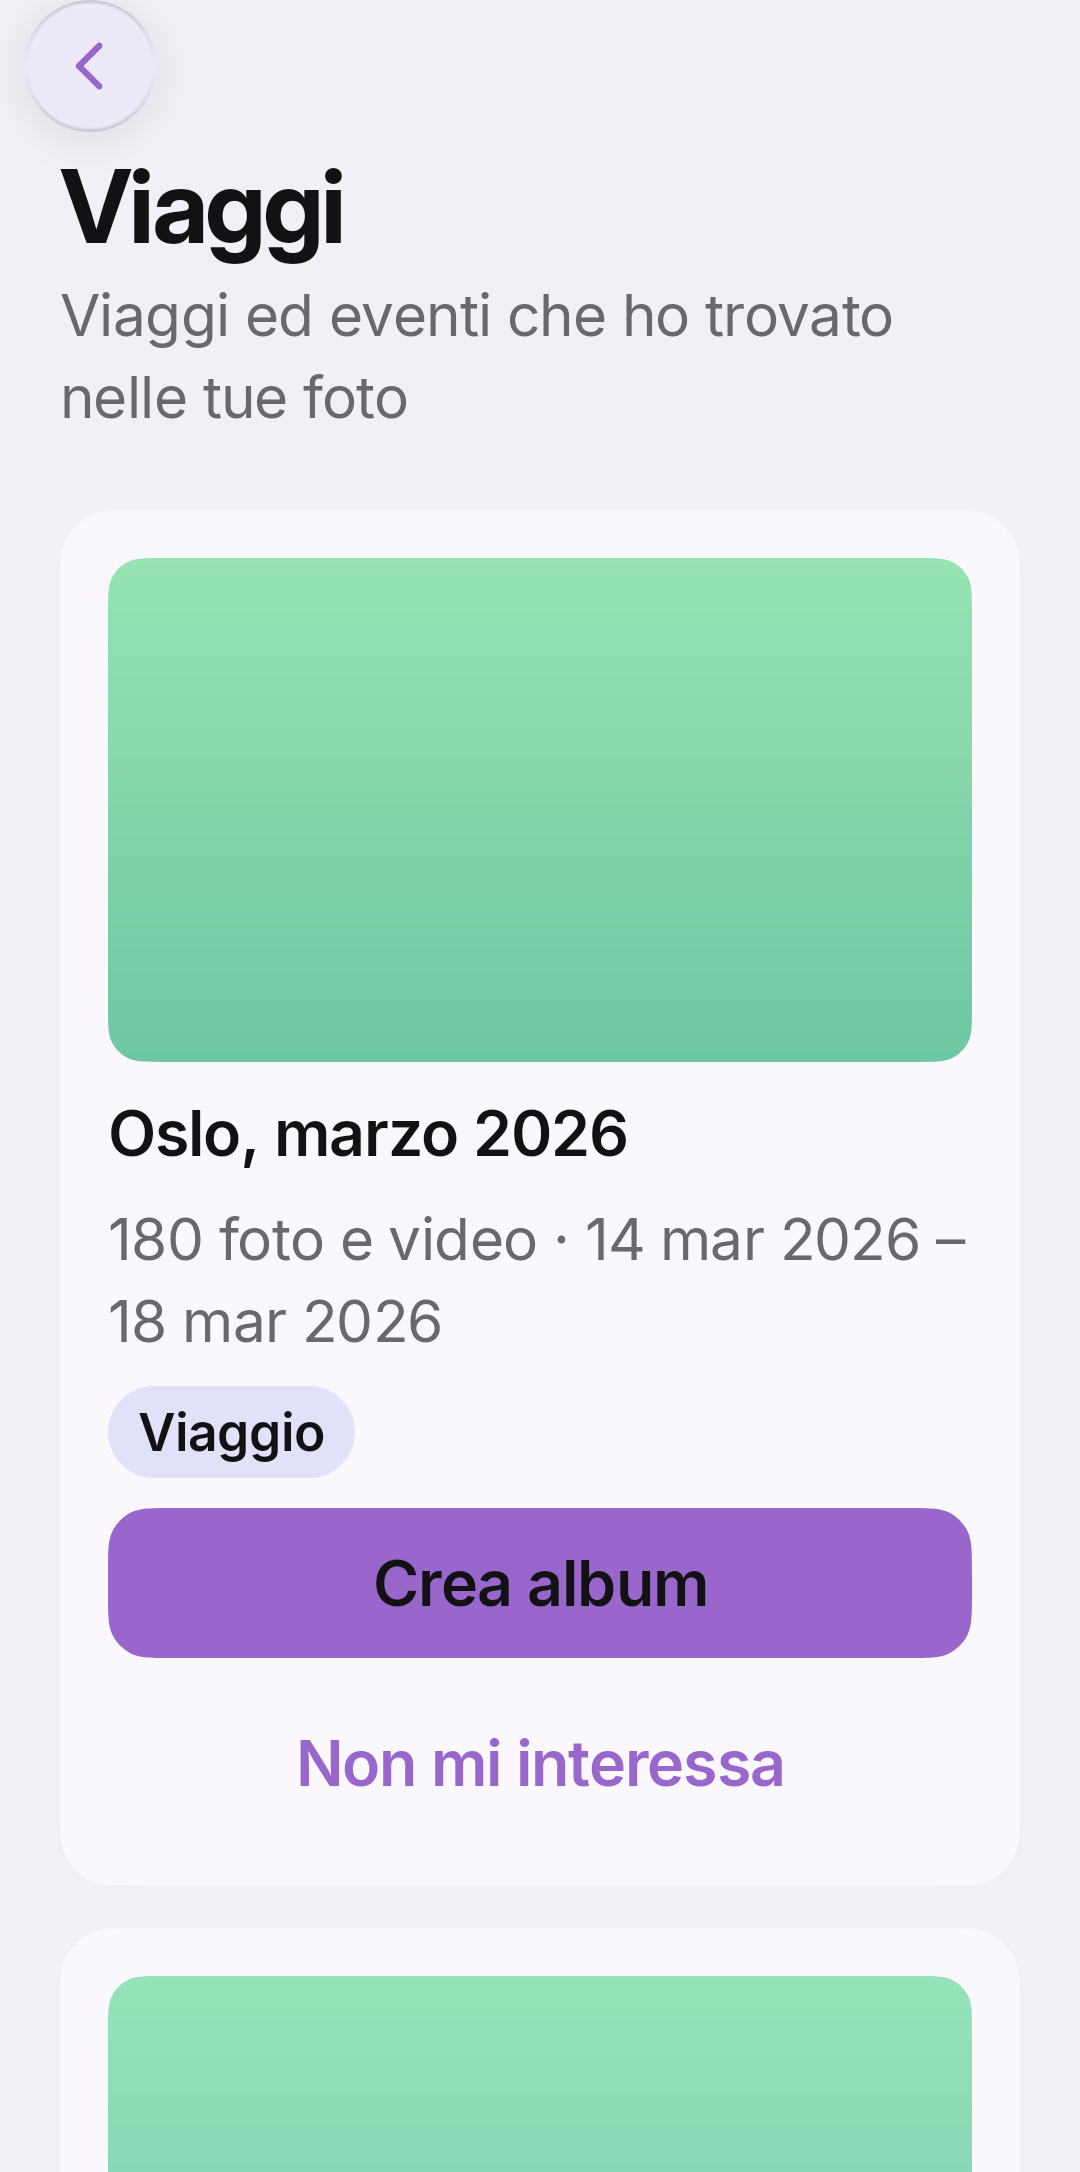
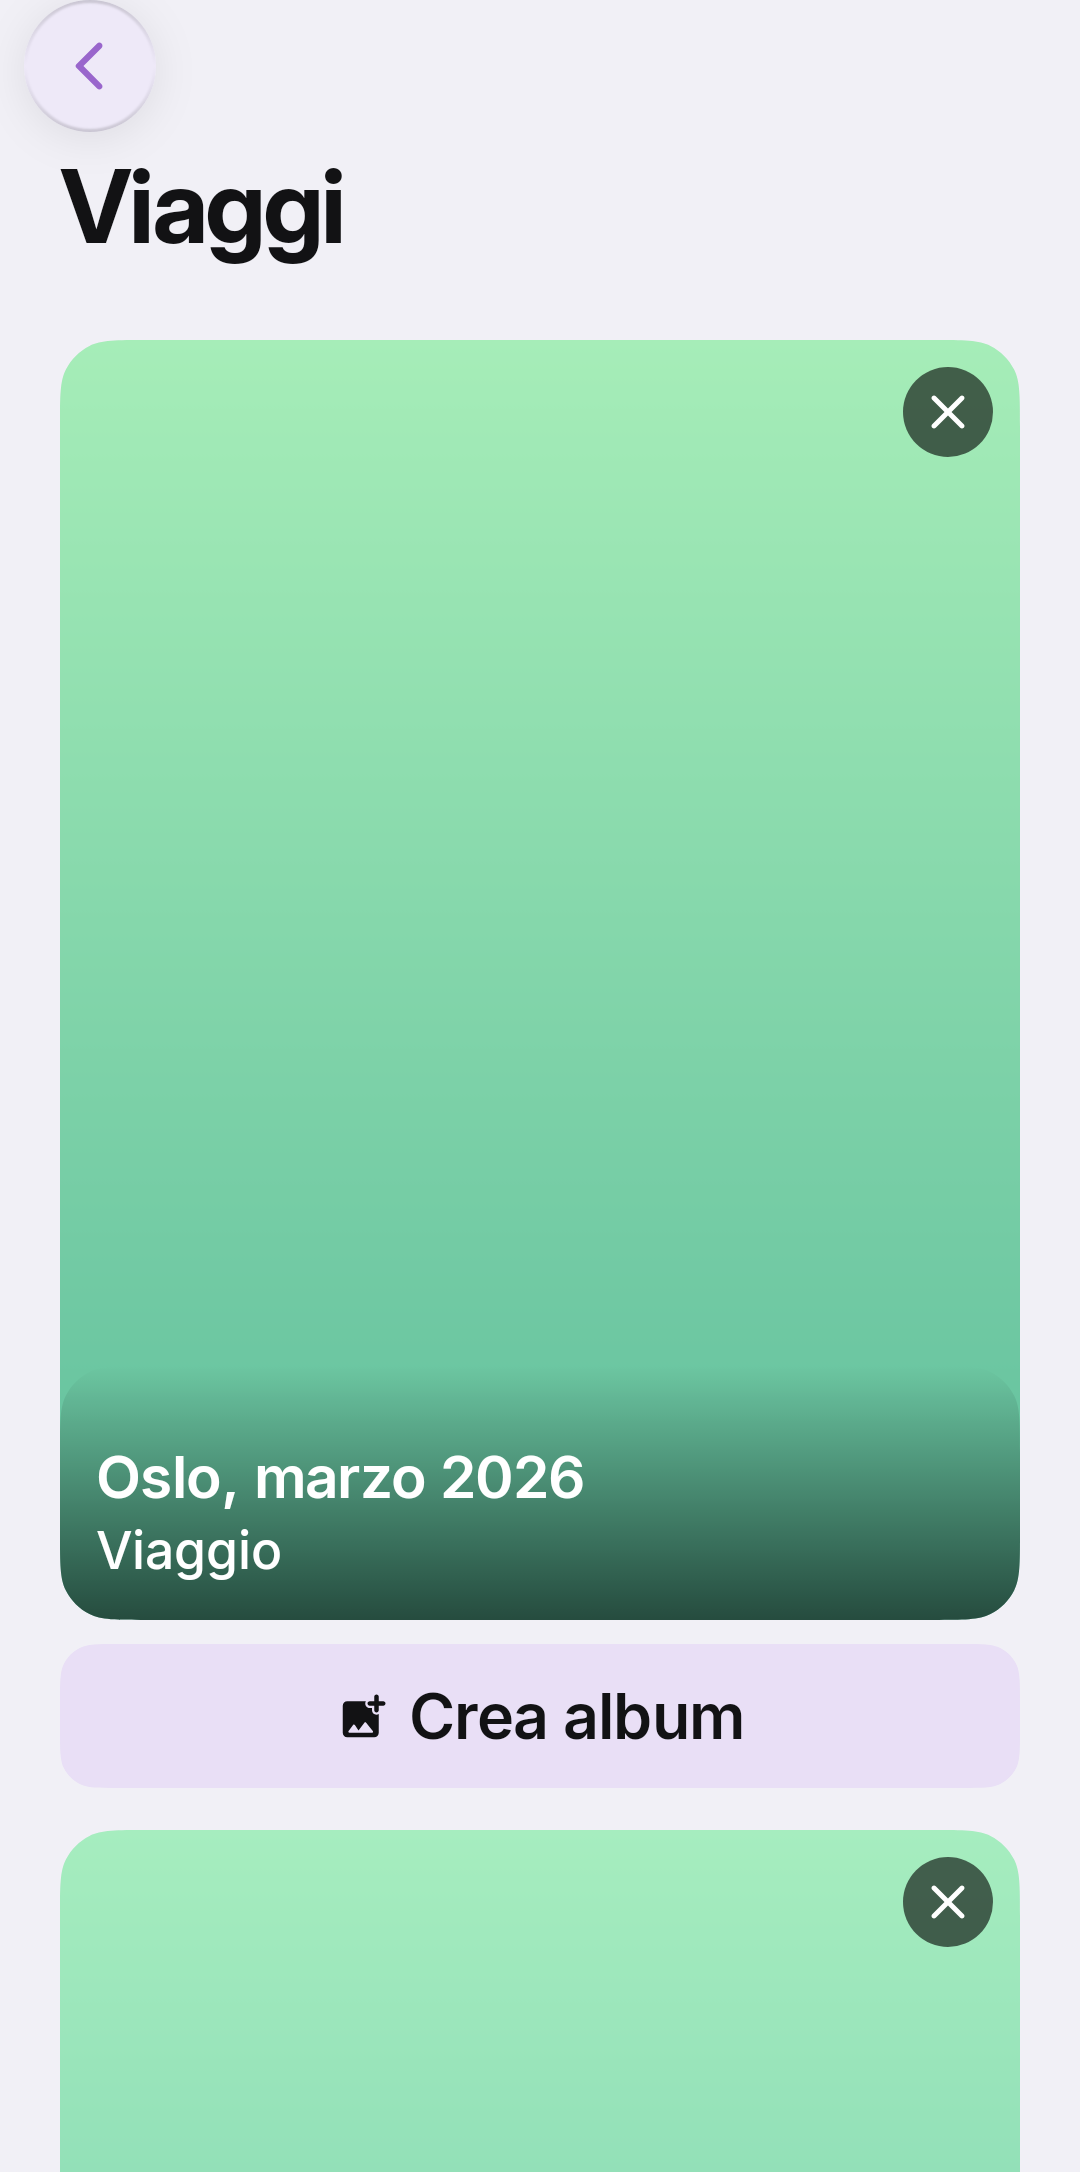
Viaggi: una griglia di schede come Tutti i ricordi, con la ✕ di Non mi interessa e Crea album sotto (I4)
La copertina a tutta scheda (3:4), il nome e «Viaggio» o «Evento» sopra la sfumatura (la coppia di GalleryOnPhoto), come le
schede di I1; il numero delle foto e i giorni li dice TalkBack. La ✕ in alto a destra (48 dp) e «Crea album» con il + sotto la
scheda; durante la creazione «Creo…» con la rotellina. Gli stati vuoti con il solo titolo, via il sottotitolo della pagina.
La scheda dei ricordi e' privata di feature-memories: qui la stessa forma con le stesse misure.

diff --git a/feature-albums/src/main/kotlin/dev/pampa/mycloudgallery/feature/albums/trips/TripsScreen.kt b/feature-albums/src/main/kotlin/dev/pampa/mycloudgallery/feature/albums/trips/TripsScreen.kt
@@ -1,37 +1,57 @@
 package dev.pampa.mycloudgallery.feature.albums.trips
 
+import androidx.compose.foundation.background
 import androidx.compose.foundation.layout.Arrangement
+import androidx.compose.foundation.layout.Box
 import androidx.compose.foundation.layout.Column
+import androidx.compose.foundation.layout.Row
+import androidx.compose.foundation.layout.Spacer
+import androidx.compose.foundation.layout.aspectRatio
 import androidx.compose.foundation.layout.fillMaxWidth
-import androidx.compose.foundation.layout.height
+import androidx.compose.foundation.layout.heightIn
+import androidx.compose.foundation.layout.padding
+import androidx.compose.foundation.layout.size
 import androidx.compose.foundation.lazy.LazyListScope
 import androidx.compose.foundation.lazy.LazyListState
 import androidx.compose.foundation.lazy.rememberLazyListState
 import androidx.compose.material.icons.Icons
+import androidx.compose.material.icons.rounded.AddPhotoAlternate
+import androidx.compose.material.icons.rounded.Close
 import androidx.compose.material.icons.rounded.Event
 import androidx.compose.material.icons.rounded.Flight
+import androidx.compose.material3.Icon
 import androidx.compose.material3.MaterialTheme
 import androidx.compose.material3.Text
 import androidx.compose.runtime.Composable
 import androidx.compose.runtime.LaunchedEffect
 import androidx.compose.runtime.remember
+import androidx.compose.ui.Alignment
 import androidx.compose.ui.Modifier
+import androidx.compose.ui.draw.clip
+import androidx.compose.ui.graphics.Brush
 import androidx.compose.ui.platform.LocalContext
 import androidx.compose.ui.res.stringResource
+import androidx.compose.ui.semantics.Role
+import androidx.compose.ui.semantics.contentDescription
+import androidx.compose.ui.semantics.hideFromAccessibility
+import androidx.compose.ui.semantics.semantics
+import androidx.compose.ui.text.style.TextOverflow
 import dev.antigravity.fluidengine.ui.fluid.ContinuousCornerShape
 import dev.antigravity.fluidengine.ui.fluid.FluidButton
 import dev.antigravity.fluidengine.ui.fluid.FluidButtonSize
 import dev.antigravity.fluidengine.ui.fluid.FluidButtonStyle
+import dev.antigravity.fluidengine.ui.fluid.FluidCapsuleShape
 import dev.antigravity.fluidengine.ui.fluid.FluidRadius
 import dev.antigravity.fluidengine.ui.fluid.FluidScreen
-import dev.pampa.mycloudgallery.core.designsystem.a11y.GallerySectionHeader
-import dev.antigravity.fluidengine.ui.theme.FluidCard
+import dev.antigravity.fluidengine.ui.fluid.fluidPressable
+import dev.antigravity.fluidengine.ui.fluid.rememberFluidScreenMetrics
 import dev.antigravity.fluidengine.ui.theme.FluidEmptyState
 import dev.antigravity.fluidengine.ui.theme.FluidInlineMessage
-import dev.antigravity.fluidengine.ui.theme.FluidStatusBadge
 import dev.antigravity.fluidengine.ui.theme.FluidTone
 import dev.pampa.mycloudgallery.core.albums.contract.TripId
 import dev.pampa.mycloudgallery.core.albums.contract.TripProposal
+import dev.pampa.mycloudgallery.core.designsystem.a11y.GallerySectionHeader
+import dev.pampa.mycloudgallery.core.designsystem.theme.GalleryOnPhoto
 import dev.pampa.mycloudgallery.core.library.text.GalleryNumbers
 import dev.pampa.mycloudgallery.core.model.TripKind
 import dev.pampa.mycloudgallery.feature.albums.R
@@ -41,10 +61,12 @@ import dev.pampa.mycloudgallery.feature.albums.ui.AlbumCoverThumb
 import dev.pampa.mycloudgallery.feature.albums.ui.AlbumDimens
 import dev.pampa.mycloudgallery.feature.albums.ui.AlbumText
 
-// LE PROPOSTE DI VIAGGIO (Fase 7, P10; docs/fase7-progetto.md §1.5 `TripsState`, D19, D20, E-AL16). Una scheda per proposta: la copertina in cima (larga, mai con
-// testo sopra), sotto il nome ("Oslo, marzo 2026"), quante foto e i giorni, e due bottoni a tutta larghezza uno sotto l'altro, "Crea album" e
-// "Non mi interessa": a 1,3x il testo non si stringe e i due bersagli non si toccano. Senza una casa stimabile (nessuna foto con la posizione) la
-// pagina lo spiega una volta e propone gli eventi. Nessuna coordinata: il contratto non le porta.
+// LE PROPOSTE DI VIAGGIO (Fase 7, P10; docs/fase7-progetto.md §1.5 `TripsState`, D19, D20, E-AL16). I4 (fase I, «l'app parla troppo»): non piu' una
+// scheda di testo con due bottoni per proposta, ma **una griglia di schede** come «Tutti i ricordi» di I1: la copertina a tutta scheda, il nome
+// («Oslo, marzo 2026») e «Viaggio» o «Evento» sopra la sfumatura; la ✕ di «Non mi interessa» in alto a destra e «Crea album» sotto la scheda. Il
+// numero delle foto e i giorni li dice TalkBack. Senza una casa stimabile (nessuna foto con la posizione) la pagina lo spiega una volta e propone
+// gli eventi. Nessuna coordinata: il contratto non le porta. La scheda dei ricordi e' privata di feature-memories (che gli Album non vedono):
+// qui la stessa forma, con le misure e la sfumatura condivise (`GalleryOnPhoto`).
 
 interface TripsHandlers {
   fun onBack()
@@ -85,33 +107,34 @@ fun TripsScreen(
   }
   val requests = remember(shown) { shown.mapNotNull { thumbnails.refs.request(it.cover) } }
   LaunchedEffect(requests, thumbnails) { thumbnails.loader.window(requests, emptyList()) }
+  val metrics = rememberFluidScreenMetrics()
+  val columns = metrics.columns(minColumn = AlbumDimens.TripCardMin, spacing = AlbumDimens.BlockGap, maxColumns = MAX_COLUMNS)
   FluidScreen(
     title = stringResource(R.string.trips_title),
-    subtitle = stringResource(R.string.trips_subtitle),
     modifier = modifier,
     onBack = handlers::onBack,
     listState = listState,
-    contentMaxWidth = AlbumDimens.SheetWidth,
+    metrics = metrics,
+    contentMaxWidth = AlbumDimens.PageWidth,
   ) {
     if (notice != null) item(key = "notice") { FluidInlineMessage(message = notice, tone = FluidTone.Info, onDismiss = onDismissNotice) }
     when (state) {
-      TripsState.Searching -> item(key = "searching") {
-        FluidEmptyState(title = stringResource(R.string.trips_searching_title), detail = stringResource(R.string.trips_searching_detail))
-      }
-      TripsState.Empty -> item(key = "empty") { FluidEmptyState(title = stringResource(R.string.trips_empty_title), detail = stringResource(R.string.trips_empty_detail)) }
+      TripsState.Searching -> item(key = "searching") { FluidEmptyState(title = stringResource(R.string.trips_searching_title), detail = "") }
+      TripsState.Empty -> item(key = "empty") { FluidEmptyState(title = stringResource(R.string.trips_empty_title), detail = "") }
       is TripsState.NoGps -> {
+        // Senza una casa stimabile la pagina lo dice una volta (e' il perche' dei soli eventi), poi gli eventi.
         item(key = "no-gps") {
           FluidInlineMessage(message = stringResource(R.string.trips_no_gps_detail), title = stringResource(R.string.trips_no_gps_title), tone = FluidTone.Info)
         }
         item(key = "events-header") { GallerySectionHeader(title = stringResource(R.string.trips_events_header)) }
         if (state.events.isEmpty()) {
-          item(key = "events-empty") { Text(stringResource(R.string.trips_events_empty), color = MaterialTheme.colorScheme.onSurfaceVariant) }
+          item(key = "events-empty") { FluidEmptyState(title = stringResource(R.string.trips_events_empty), detail = "") }
         } else {
-          proposalCards(state.events, thumbnails, handlers, creating)
+          proposalCards(state.events, columns, thumbnails, handlers, creating)
         }
       }
       is TripsState.Proposals -> {
-        proposalCards(state.proposals, thumbnails, handlers, creating)
+        proposalCards(state.proposals, columns, thumbnails, handlers, creating)
         if (state.hasOlder) {
           item(key = "older") {
             FluidButton(text = stringResource(R.string.trips_show_older), onClick = handlers::onShowOlder, style = FluidButtonStyle.Tinted, size = FluidButtonSize.Large, fillWidth = true)
@@ -122,35 +145,102 @@ fun TripsScreen(
   }
 }
 
-private fun LazyListScope.proposalCards(proposals: List<TripProposal>, thumbnails: AlbumThumbnails, handlers: TripsHandlers, creating: TripId?) {
-  proposals.forEach { trip ->
-    item(key = trip.id.value) { ProposalCard(trip, thumbnails, handlers, creating == trip.id) }
+/** Le proposte in una griglia, a righe di [columns] schede (le righe sono gli elementi della lista: si compongono solo quelle sullo schermo). */
+private fun LazyListScope.proposalCards(proposals: List<TripProposal>, columns: Int, thumbnails: AlbumThumbnails, handlers: TripsHandlers, creating: TripId?) {
+  proposals.chunked(columns).forEach { row ->
+    item(key = "row-" + row.first().id.value, contentType = "trip-row") {
+      Row(horizontalArrangement = Arrangement.spacedBy(AlbumDimens.BlockGap), modifier = Modifier.fillMaxWidth()) {
+        row.forEach { trip -> ProposalCard(trip, thumbnails, handlers, creating == trip.id, Modifier.weight(1f)) }
+        repeat(columns - row.size) { Spacer(Modifier.weight(1f)) }
+      }
+    }
   }
 }
 
+/**
+ * Una proposta (I4, fase I): come le schede di «Tutti i ricordi» di I1, la copertina a tutta scheda con il titolo in basso sopra la sfumatura
+ * (la coppia di `GalleryOnPhoto`) e al piu' una riga piccola, «Viaggio» o «Evento» (il mese e' gia' nel titolo). Il numero delle foto e i giorni
+ * li dice TalkBack. In alto a destra la ✕ di «Non mi interessa»; sotto la scheda il tasto «Crea album» con il +, largo quanto la scheda.
+ */
 @Composable
-private fun ProposalCard(trip: TripProposal, thumbnails: AlbumThumbnails, handlers: TripsHandlers, busy: Boolean) {
+private fun ProposalCard(trip: TripProposal, thumbnails: AlbumThumbnails, handlers: TripsHandlers, busy: Boolean, modifier: Modifier) {
   val resources = LocalContext.current.resources
   val days = if (trip.days.from == trip.days.to) AlbumText.day(trip.days.from) else resources.getString(R.string.trips_days, AlbumText.shortDay(trip.days.from), AlbumText.shortDay(trip.days.to))
-  FluidCard {
-    AlbumCoverThumb(
-      media = trip.cover, thumbnails = thumbnails,
-      modifier = Modifier.fillMaxWidth().height(AlbumDimens.TripCoverHeight),
-      shape = ContinuousCornerShape(FluidRadius.Control),
-      glyph = if (trip.kind == TripKind.TRIP) Icons.Rounded.Flight else Icons.Rounded.Event,
-    )
-    Column(verticalArrangement = Arrangement.spacedBy(AlbumDimens.TightGap)) {
-      Text(text = trip.label, style = MaterialTheme.typography.titleMedium, color = MaterialTheme.colorScheme.onSurface)
-      Text(
-        text = resources.getQuantityString(R.plurals.trips_count, trip.count, GalleryNumbers.format(trip.count)) + " · " + days,
-        style = MaterialTheme.typography.bodyMedium, color = MaterialTheme.colorScheme.onSurfaceVariant,
-      )
-      FluidStatusBadge(label = stringResource(if (trip.kind == TripKind.TRIP) R.string.trips_kind_trip else R.string.trips_kind_event), tone = FluidTone.Info)
+  val kind = stringResource(if (trip.kind == TripKind.TRIP) R.string.trips_kind_trip else R.string.trips_kind_event)
+  val spoken = listOf(trip.label, kind, resources.getQuantityString(R.plurals.trips_count, trip.count, GalleryNumbers.format(trip.count)), days).joinToString(", ")
+  val dismiss = stringResource(R.string.trips_dismiss_for, trip.label)
+  val shape = ContinuousCornerShape(FluidRadius.Card)
+  Column(modifier = modifier, verticalArrangement = Arrangement.spacedBy(AlbumDimens.TightGap)) {
+    Box(modifier = Modifier.fillMaxWidth().aspectRatio(TRIP_CARD_ASPECT)) {
+      Box(modifier = Modifier.matchParentSize().semantics(mergeDescendants = true) { contentDescription = spoken }) {
+        AlbumCoverThumb(
+          media = trip.cover,
+          thumbnails = thumbnails,
+          modifier = Modifier.matchParentSize(),
+          shape = shape,
+          glyph = if (trip.kind == TripKind.TRIP) Icons.Rounded.Flight else Icons.Rounded.Event,
+        )
+        val scrim = GalleryOnPhoto.scrim()
+        Column(
+          modifier = Modifier
+            .align(Alignment.BottomStart)
+            .fillMaxWidth()
+            .clip(shape)
+            .background(Brush.verticalGradient(listOf(scrim.copy(alpha = 0f), scrim)))
+            .padding(start = AlbumDimens.TripCardInset, end = AlbumDimens.TripCardInset, bottom = AlbumDimens.TripCardInset, top = AlbumDimens.TripCardInset * 2),
+        ) {
+          // La scheda dice tutto nella sua descrizione: i testi si vedono ma TalkBack non li rilegge.
+          Text(
+            text = trip.label,
+            style = MaterialTheme.typography.titleSmall,
+            color = GalleryOnPhoto.Content,
+            maxLines = 2,
+            overflow = TextOverflow.Ellipsis,
+            modifier = Modifier.semantics { hideFromAccessibility() },
+          )
+          Text(
+            text = kind,
+            style = MaterialTheme.typography.labelMedium,
+            color = GalleryOnPhoto.Content,
+            maxLines = 1,
+            overflow = TextOverflow.Ellipsis,
+            modifier = Modifier.semantics { hideFromAccessibility() },
+          )
+        }
+      }
+      // La ✕: bersaglio di 48 dp, il segno su un tondo velato (si legge su qualunque foto).
+      Box(
+        modifier = Modifier
+          .align(Alignment.TopEnd)
+          .size(AlbumDimens.Touch)
+          .semantics { contentDescription = dismiss }
+          .fluidPressable(onClick = { handlers.onDismiss(trip.id) }, enabled = !busy, role = Role.Button, focusShape = FluidCapsuleShape),
+        contentAlignment = Alignment.Center,
+      ) {
+        Box(
+          modifier = Modifier.size(AlbumDimens.TripDismissDisc).background(GalleryOnPhoto.scrim(), FluidCapsuleShape),
+          contentAlignment = Alignment.Center,
+        ) {
+          Icon(imageVector = Icons.Rounded.Close, contentDescription = null, tint = GalleryOnPhoto.Content, modifier = Modifier.size(AlbumDimens.TileGlyph))
+        }
+      }
     }
     FluidButton(
-      text = stringResource(if (busy) R.string.trips_creating else R.string.trips_create), onClick = { handlers.onCreate(trip.id) },
-      enabled = !busy, loading = busy, size = FluidButtonSize.Large, fillWidth = true,
+      text = stringResource(if (busy) R.string.trips_creating else R.string.trips_create),
+      onClick = { handlers.onCreate(trip.id) },
+      enabled = !busy,
+      loading = busy,
+      style = FluidButtonStyle.Tinted,
+      size = FluidButtonSize.Medium,
+      fillWidth = true,
+      leading = { Icon(imageVector = Icons.Rounded.AddPhotoAlternate, contentDescription = null, modifier = Modifier.size(AlbumDimens.TileGlyph)) },
+      modifier = Modifier.heightIn(min = AlbumDimens.Touch),
     )
-    FluidButton(text = stringResource(R.string.trips_dismiss), onClick = { handlers.onDismiss(trip.id) }, style = FluidButtonStyle.Plain, size = FluidButtonSize.Large, enabled = !busy, fillWidth = true)
   }
 }
+
+/** Quante colonne al piu' (il tablet largo), come «Tutti i ricordi». */
+private const val MAX_COLUMNS = 6
+
+/** La forma della scheda: 3:4, come le schede dei ricordi. */
+private const val TRIP_CARD_ASPECT = 3f / 4f

diff --git a/feature-albums/src/test/kotlin/dev/pampa/mycloudgallery/feature/albums/AlbumsBehaviourTest.kt b/feature-albums/src/test/kotlin/dev/pampa/mycloudgallery/feature/albums/AlbumsBehaviourTest.kt
@@ -469,12 +469,13 @@ class AlbumsBehaviourTest : AlbumsComposeTest() {
     assertThat(handlers.accepted).isEqualTo(0)
   }
 
+  /** I4: «Crea album» sotto la scheda, la ✕ di «Non mi interessa» in alto sulla copertina; a 1,3x i due bersagli restano separati. */
   @Test
-  fun iBottoniDiUnaProstaDiViaggioSonoAPienaLarghezzaUnoSottoLAltro() {
+  fun iDueTastiDiUnaPropostaDiViaggioNonSiToccano() {
     showAll(fontScale = LARGE_TEXT) { TripsScreen(TripsState.Proposals(listOf(AlbumSamples.trip), hasOlder = false), scenes.thumbnails.thumbnails, NoTripsHandlers) }
     val create = composeRule.onNode(hasText("Crea album") and hasClickAction()).fetchSemanticsNode().boundsInRoot
-    val dismiss = composeRule.onNode(hasText("Non mi interessa") and hasClickAction()).fetchSemanticsNode().boundsInRoot
-    assertThat(create.bottom).isAtMost(dismiss.top + 1f)
-    assertThat(create.width).isWithin(2f).of(dismiss.width)
+    val dismiss = composeRule.onNode(hasContentDescription("Non mi interessa", substring = true) and hasClickAction()).fetchSemanticsNode().boundsInRoot
+    assertThat(dismiss.bottom).isAtMost(create.top + 1f)
+    assertThat(dismiss.right).isWithin(2f).of(create.right)
   }
 }

diff --git a/feature-albums/src/main/kotlin/dev/pampa/mycloudgallery/feature/albums/ui/AlbumDimens.kt b/feature-albums/src/main/kotlin/dev/pampa/mycloudgallery/feature/albums/ui/AlbumDimens.kt
@@ -40,8 +40,14 @@ internal object AlbumDimens {
   /** Il lato di una foto d'esempio. */
   val ExampleThumb: Dp = 72.dp
 
-  /** L'altezza della copertina di una proposta di viaggio. */
-  val TripCoverHeight: Dp = 168.dp
+  /** I4: la scheda di una proposta nella griglia di «Viaggi», larga almeno quanto quelle di «Tutti i ricordi» (I1). */
+  val TripCardMin: Dp = 140.dp
+
+  /** I4: il margine del titolo dentro la scheda di una proposta. */
+  val TripCardInset: Dp = 12.dp
+
+  /** I4: il tondo velato sotto la ✕ di «Non mi interessa». */
+  val TripDismissDisc: Dp = 30.dp
 
   /** La larghezza massima di un foglio o di una pagina di lettura sul tablet. */
   val SheetWidth: Dp = 560.dp
